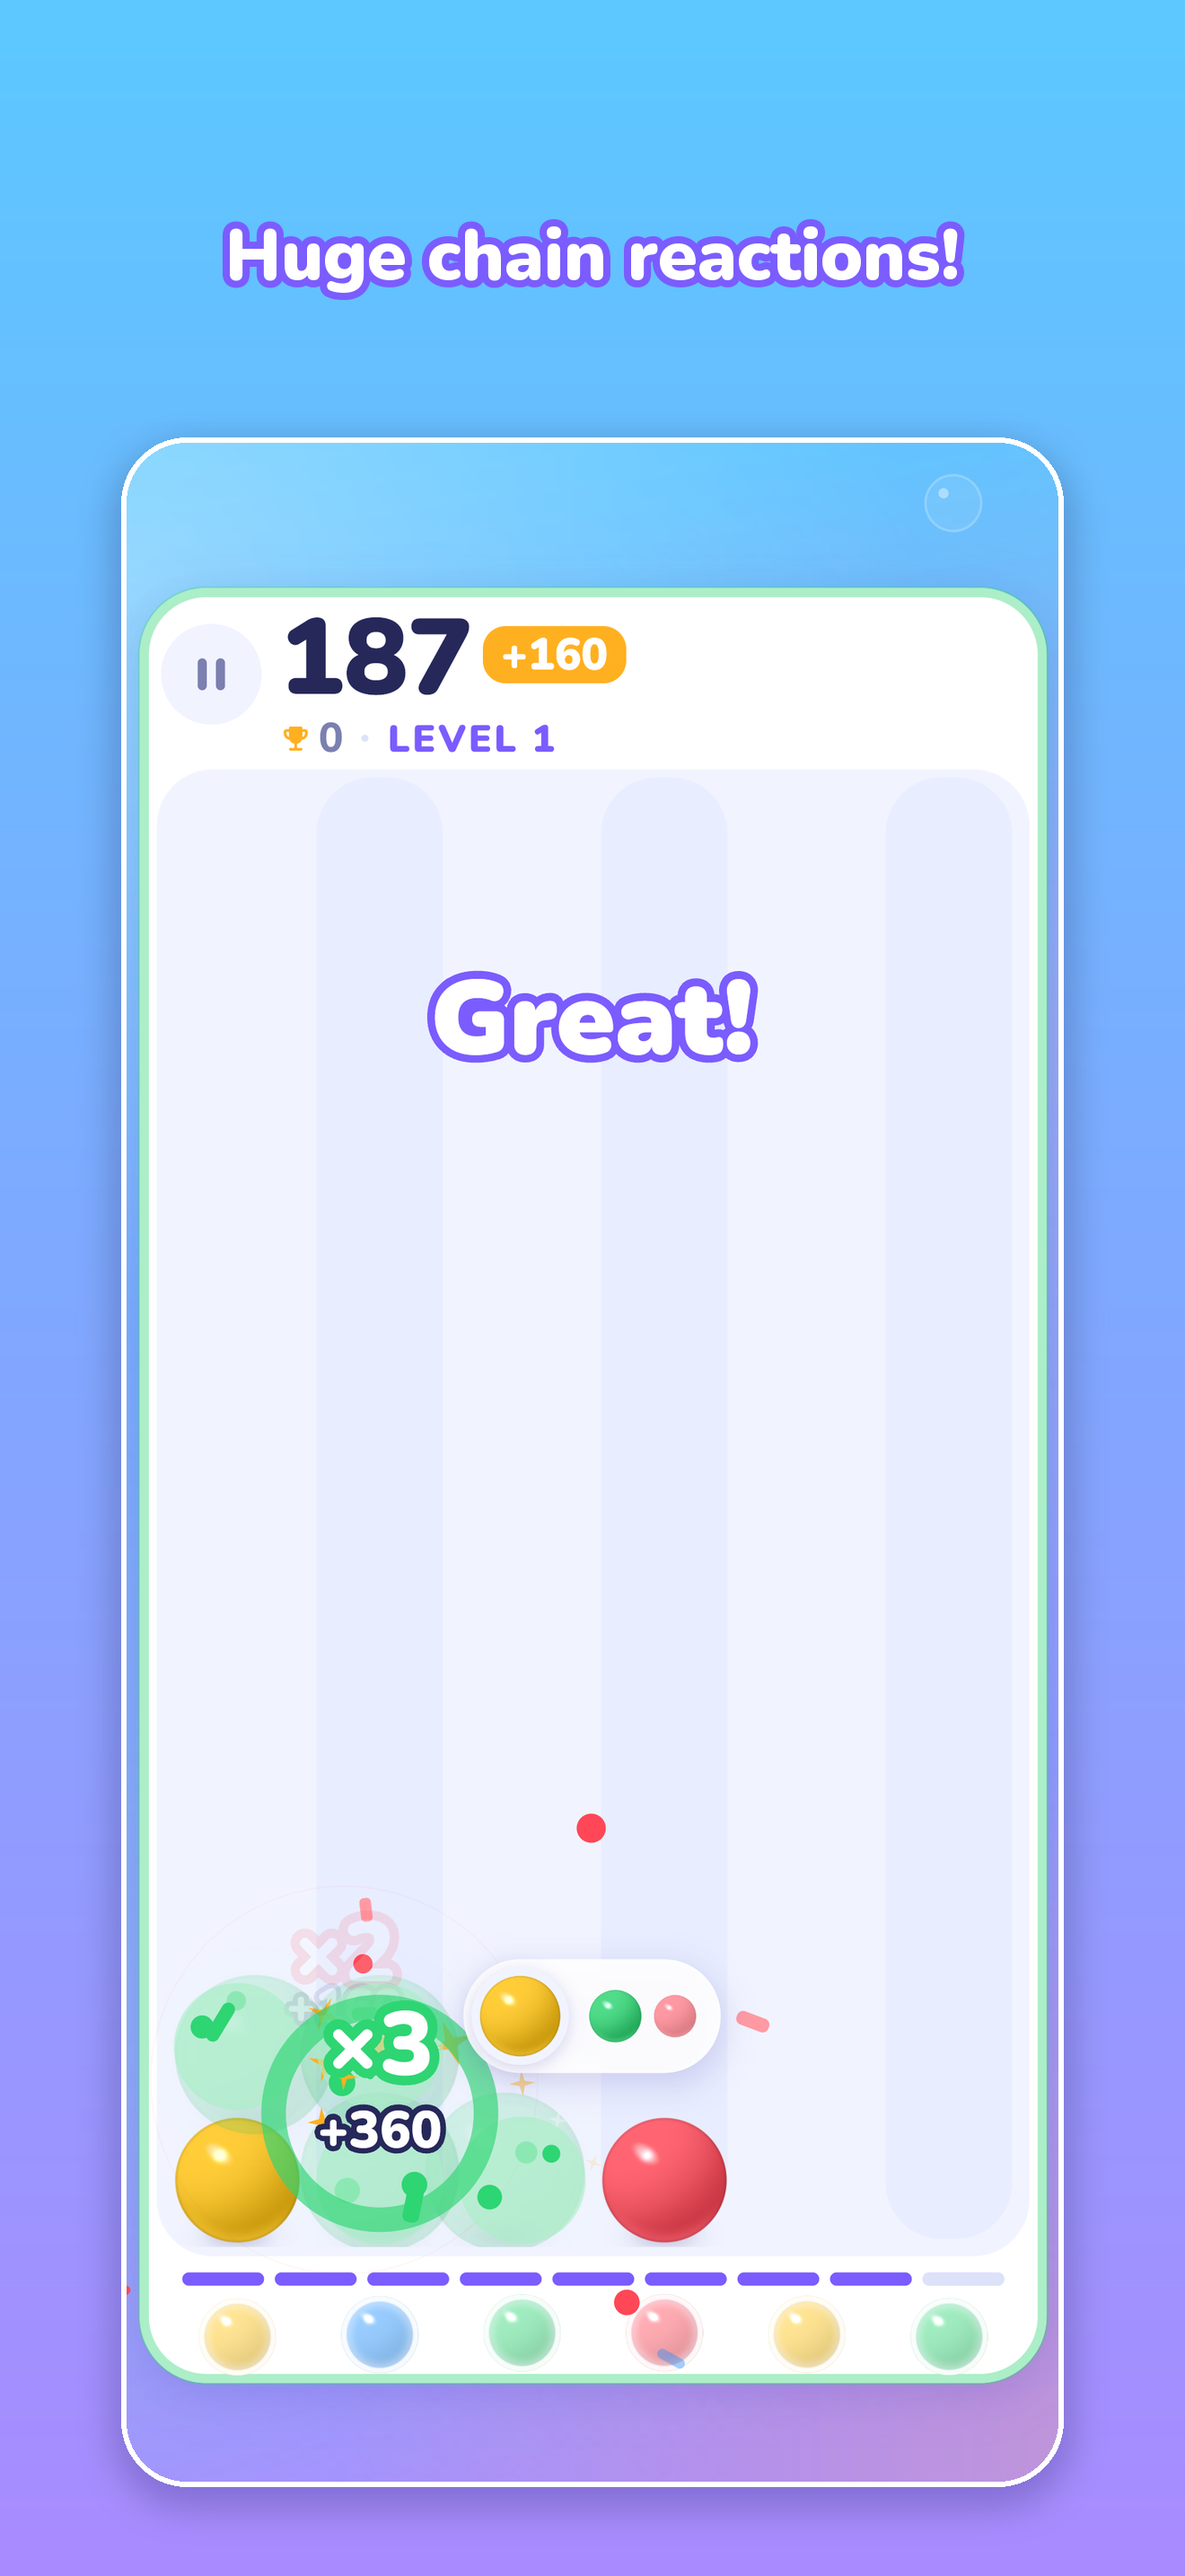
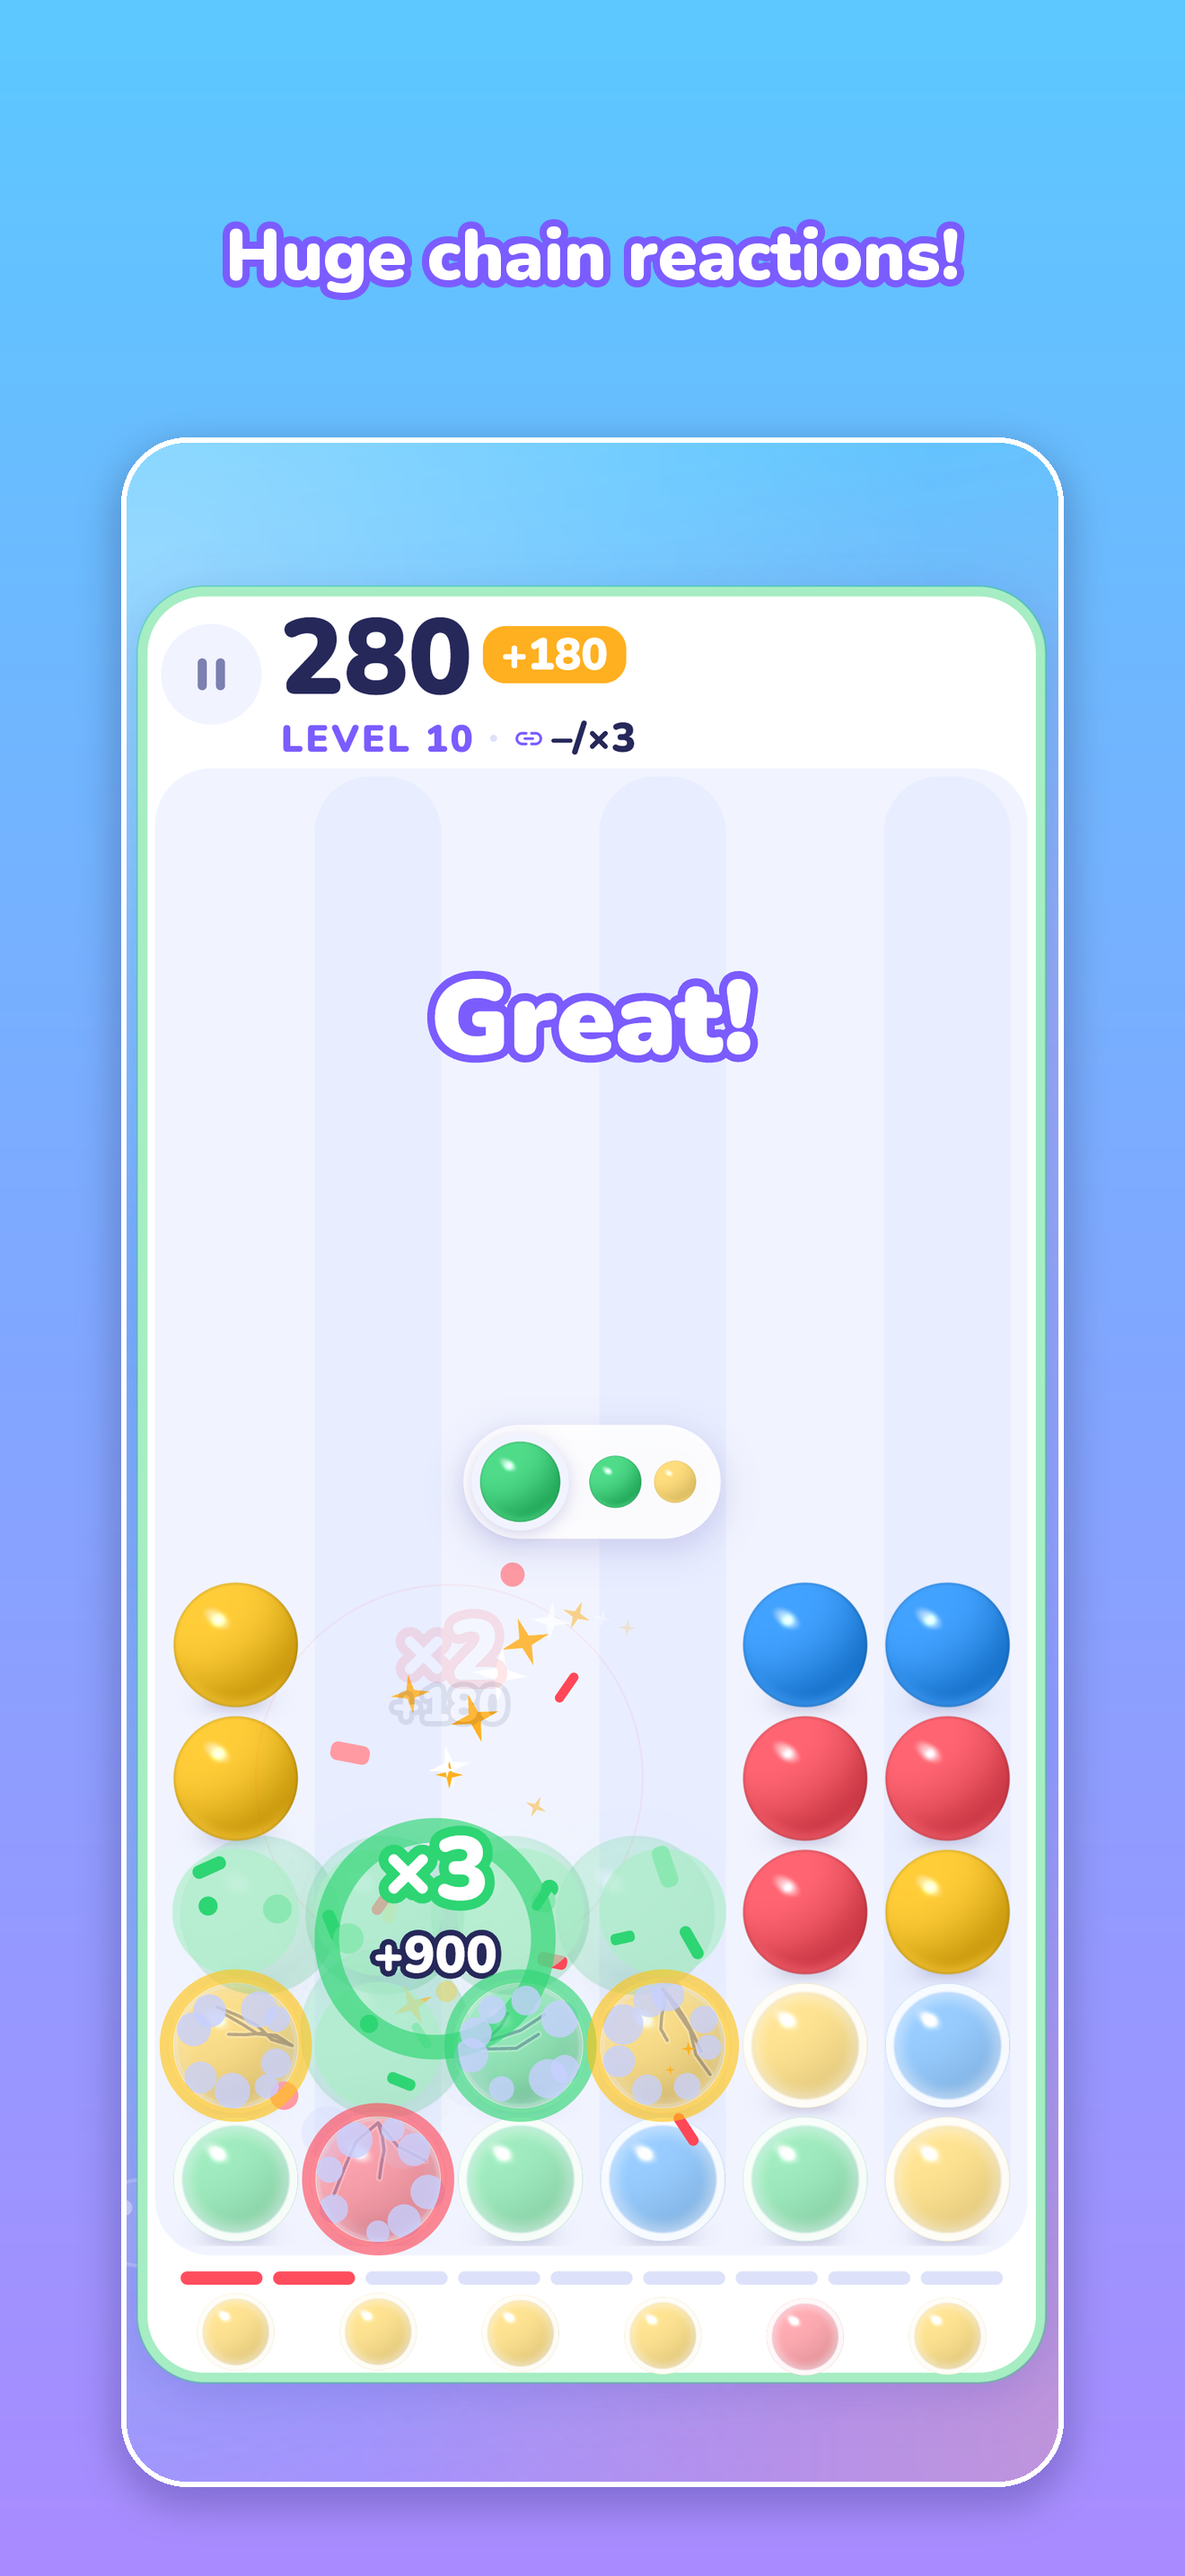
Store material for 1.1.0: six new screenshots (levels, goal card, gift, style), guide and checklist

diff --git a/tools/make_store_assets.py b/tools/make_store_assets.py
@@ -2,7 +2,7 @@
 
 Input: raw 1320x2868 game screenshots in app/build/store_raw/, captured with the
 phone-frame screenshot driver (see docs/MOBILE_RELEASE_GUIDE.md, "Remaking the
-store images"). Needs Pillow: python -m pip install --user pillow
+store images"); names as in SHOTS below. Needs Pillow: python -m pip install --user pillow
 
     python tools/make_store_assets.py
 """
@@ -22,11 +22,12 @@ ACCENT = (0x7B, 0x5C, 0xFF)
 
 # (raw screenshot, caption): only things the game really does.
 SHOTS = [
-    ('chain_04', 'Huge chain reactions!'),
-    ('aim', 'Drag to aim, then drop'),
-    ('chain_03', 'Free the balls in bubbles'),
-    ('round_mid', 'Plan ahead: new rows rise'),
-    ('home', 'Quick rounds, plays offline'),
+    ('chain', 'Huge chain reactions!'),
+    ('map', '30 levels to beat'),
+    ('level_card', 'A clear goal every level'),
+    ('gift', 'Win gifts and new styles'),
+    ('style', 'Unlock new balls and skies'),
+    ('home', 'Endless mode, plays offline'),
 ]
 
 

diff --git a/docs/MOBILE_RELEASE_GUIDE.md b/docs/MOBILE_RELEASE_GUIDE.md
@@ -13,20 +13,20 @@ Written for a first release. Work through it with the checklist in
 
 | Area | Status |
 |---|---|
-| Game | Finished and tested (see section 6). Version **1.0.0**, build number **1**. |
+| Game | Finished and tested (see section 6). Version **1.1.0**, build number **2**: 30 levels with goals, gifts, achievements and unlockable styles, plus Endless. |
 | App identity | Name **Bubblop**, app ID **com.bubblop.game** (Android and iOS), app icon, launch screen. |
 | Android | Signed release bundle built: `app\build\app\outputs\bundle\release\app-release.aab`. Targets Android 16 (API 36), minimum Android 7 (API 24); 64-bit; native code 16 KB-page compatible; **no permissions** players see. |
 | Android signing | Upload key created at `C:\Users\User\pop-upload-key.jks`; password in `app\android\key.properties` (not in Git). **You must back these up**, section 7. |
 | iPhone | Project set up for iPhone only, portrait only, iOS 15+. Cloud build workflow ready in `codemagic.yaml` (no Mac needed). Not built yet: that needs your Apple account. |
 | Store texts | `docs\store\listing.md`: titles, descriptions, keywords, categories and every questionnaire answer. |
-| Store images | `docs\store\assets\`: 5 iPhone screenshots (1320×2868), 5 Android screenshots (1080×1920), Play feature graphic (1024×500), Play icon (512×512). Made from the real game. |
+| Store images | `docs\store\assets\`: 6 iPhone screenshots (1320×2868), 6 Android screenshots (1080×1920), Play feature graphic (1024×500), Play icon (512×512). Made from the real game (levels, goal card, gift, style, home). |
 | Web pages | Support page `docs\index.html` and privacy policy `docs\privacy.html`, ready for free hosting on GitHub Pages (one switch, part A below). |
 
 ## 2. What was changed for release, and why
 
 | Change | Why |
 |---|---|
-| Version 0.1.0 → **1.0.0+1** (`app\pubspec.yaml`) | First public version. |
+| Version 0.1.0 → **1.0.0+1**, then **1.1.0+2** (`app\pubspec.yaml`) | First public version; 1.1.0 adds levels, gifts, achievements and styles. |
 | iOS: iPhone only, portrait only, full screen (`app\ios\Runner.xcodeproj\project.pbxproj`, `app\ios\Runner\Info.plist`) | The game is portrait-only. iPad support would need iPad screenshots and all four orientations. iPads can still run the iPhone version. |
 | iOS: `ITSAppUsesNonExemptEncryption = NO` (`Info.plist`) | The game uses no encryption, so App Store Connect stops asking the export-compliance question on every upload. |
 | `codemagic.yaml`: new **iOS release (TestFlight)** workflow | Builds, signs and uploads the iPhone version from the cloud, so you don't need a Mac. |
@@ -62,7 +62,7 @@ downloaded from the build page.
 
 | File | Path |
 |---|---|
-| Android bundle for Google Play | `app\build\app\outputs\bundle\release\app-release.aab` (71 MB including the music; a single-phone install is about 40 MB) |
+| Android bundle for Google Play | `app\build\app\outputs\bundle\release\app-release.aab` (72 MB including the music; a single-phone install is about 40 MB) |
 | Android test APK | `app\build\app\outputs\flutter-apk\app-release.apk` |
 | Android upload key | `C:\Users\User\pop-upload-key.jks` |
 | Key password | `app\android\key.properties` (`storePassword` line) |
@@ -166,7 +166,7 @@ Connect **Users and Access**), and the games can be transferred to your own acco
 2. **Dashboard → Set up your app**: complete every item using the answers in
    `docs\store\listing.md` ("Google Play → App content").
 3. **Grow users → Store presence → Main store listing**: paste the texts, then upload the
-   icon, feature graphic and 5 phone screenshots from `docs\store\assets\`.
+   icon, feature graphic and 6 phone screenshots from `docs\store\assets\`.
 4. **Test and release → Testing → Internal testing → Create new release**: upload
    `app-release.aab`. Accept **Play App Signing** if asked. Release name `1.0.0 (1)`. Add
    yourself under **Testers**, open the link on your phone and install. Play a round.
@@ -222,7 +222,7 @@ Connect **Users and Access**), and the games can be transferred to your own acco
 8. **TestFlight:** add yourself under **Internal Testing**. Install **TestFlight** on your
    iPhone and play the game.
 9. **App Store page** (App Store Connect → your app → **iOS App 1.0**):
-   1. Screenshots: drag in `ios-6.9in-1.png` … `ios-6.9in-5.png` under **iPhone 6.9"
+   1. Screenshots: drag in `ios-6.9in-1.png` … `ios-6.9in-6.png` under **iPhone 6.9"
       Display**. If App Store Connect asks for a different size first, see section 14.
    2. Promotional text, description, keywords, support URL, marketing URL and copyright
       from `docs\store\listing.md`.
@@ -289,17 +289,20 @@ Connect **Users and Access**), and the games can be transferred to your own acco
 
 ## 14. Remaking the store images
 
-1. Capture raw screenshots at 1320×2868 with the developer screenshot driver, for example:
+1. Capture raw screenshots at 1320×2868 with the developer screenshot driver. Close the
+   Windows copy of the game first (a window losing focus pauses the game). Example:
    ```powershell
    cd C:\dev\project_pop\app
    flutter run -d windows --profile --dart-define=POP_PHONE=440x956+62+34 `
-     --dart-define=POP_SHOT_SCALE=3 --dart-define=POP_SEED=11 `
-     "--dart-define=POP_SHOT=wait 2.5; shot home; wait 2.5; tap 220 755; wait 1.5; shot round_start"
+     --dart-define=POP_SHOT_SCALE=3 --dart-define=POP_PROGRESS=11 `
+     "--dart-define=POP_SHOT=wait 5; shot home; tap 220 603; wait 1; tap 220 920; wait 0.8; shot map"
    ```
-   Shots land in `app\build\shots\`. Copy the ones you want into `app\build\store_raw\`
-   with the names listed in `tools\make_store_assets.py` (`chain_04`, `aim`, `chain_03`,
-   `round_mid`, `home`). The chain shots come from `--dart-define=POP_DEMO=chain` and
-   dropping into column 5. Ask me if you'd rather I do it.
+   `POP_PROGRESS=11` starts with levels 1–11 done (in memory only). Shots land in
+   `app\build\shots\`. Copy the ones you want into `app\build\store_raw\` with the names
+   listed in `tools\make_store_assets.py` (`chain`, `map`, `level_card`, `gift`, `style`,
+   `home`). The chain, goal card and gift come from playing level 10 with its recorded
+   winning moves (`packages\pop_core\test\level_solutions.dart`). Ask me if you'd rather I
+   do it.
 2. `python tools\make_store_assets.py` rebuilds everything in `docs\store\assets\`.
 3. For a different iPhone size (for example 6.3", 1206×2622), change the phone size to
    `402x874` and the `1320, 2868` numbers in the script.

diff --git a/docs/RELEASE_CHECKLIST.md b/docs/RELEASE_CHECKLIST.md
@@ -4,14 +4,14 @@ Tick items as you go (in VS Code: change `[ ]` to `[x]`). Details for each step 
 [MOBILE_RELEASE_GUIDE.md](MOBILE_RELEASE_GUIDE.md); section numbers are in brackets.
 
 ## Done for you (2026-10-22)
-- [x] Game finished; version 1.0.0 (build 1)
+- [x] Game finished; version 1.1.0 (build 2): levels, gifts, achievements, styles
 - [x] Automated checks pass: analyze, 27 app tests, 50 rules tests
 - [x] Android release build tested on the emulator (launch, tutorial, chain, back, resume, saved progress)
 - [x] Android upload key created; signed `app-release.aab` built and verified
 - [x] Android: API 36 target, 64-bit, 16 KB pages, no user permissions
 - [x] iOS project: iPhone only, portrait, iOS 15+, encryption declaration, Codemagic release workflow
 - [x] Store texts and questionnaire answers (`docs/store/listing.md`)
-- [x] Store images (`docs/store/assets/`)
+- [x] Store images (`docs/store/assets/`), refreshed for 1.1.0 (6 screenshots)
 - [x] Support and privacy web pages (`docs/index.html`, `docs/privacy.html`)
 
 ## Before anything else
@@ -31,7 +31,8 @@ Tick items as you go (in VS Code: change `[ ]` to `[x]`). Details for each step 
 - [x] Main store listing: texts, icon, feature graphic, 5 screenshots [9B.3]
 - [x] Internal testing: upload `app-release.aab`, accept Play App Signing, install on your phone [9B.4]
 - [ ] Real-phone checks: sound, vibration, smoothness, best score after reopening, pause on a call [6]
-- [ ] Closed testing release sent for review [9B.5]
+- [ ] Main store listing: replace the screenshots with the 6 new ones and paste the new description lines (1.1.0)
+- [ ] Closed testing release with `Bubblop 1.1.0 (upload this).aab` sent for review [9B.5]
 - [ ] 12+ testers opted in (list names here): …
 - [ ] Day 1 of 14: ____ · Day 14: ____
 - [ ] Apply for production access [9B.6]

diff --git a/docs/known-bugs.md b/docs/known-bugs.md
@@ -68,6 +68,15 @@ active effects.
 
 UI thread (build) for the bright design: 0.9 ms average, 2.0 ms p99, 0 frames over budget.
 
+## Verified 2026-10-27 (1.1.0+2: levels, gifts, achievements, styles)
+- Windows phone-frame runs: home, level map (5 per row), goal card, levels 3 and 10 won by
+  their recorded lines (gift box and special gift opened), a lost level 1, achievements,
+  style (buying Mint, using Candy recolours home and game), Endless unchanged.
+- Android emulator (API 37), release build: fresh install → level 1 on the tutorial board
+  won, +50 coins with two achievements; force-stop and relaunch keeps coins and LEVEL 2;
+  map shows 5 per row at 411 dp. No game errors in logcat.
+- App bundle 1.1.0 (2): signed with the upload key, targetSdk 36, no runtime permissions.
+
 ## Verified 2026-10-26 (release candidate 1.0.0+1, new layout and music)
 - Android emulator (API 37), release build: home, tutorial, held press → ×2 chain, Back →
   pause (Sound / Music / Vibration), background and return stays paused, force-stop and

diff --git a/docs/store/listing.md b/docs/store/listing.md
@@ -63,7 +63,7 @@ bubble to break it open and free the ball inside, which can set off an even bigg
 |---|---|
 | App icon (512×512) | `play-icon-512.png` |
 | Feature graphic (1024×500) | `play-feature-graphic-1024x500.png` |
-| Phone screenshots (1080×1920, upload in this order) | `android-phone-1.png` … `android-phone-5.png` |
+| Phone screenshots (1080×1920, upload in this order) | `android-phone-1.png` … `android-phone-6.png` |
 
 ---
 
@@ -83,7 +83,7 @@ plain text).
 ### Screenshots (in docs/store/assets/)
 | App Store Connect field | File |
 |---|---|
-| iPhone 6.9" Display (1320×2868, upload in this order) | `ios-6.9in-1.png` … `ios-6.9in-5.png` |
+| iPhone 6.9" Display (1320×2868, upload in this order) | `ios-6.9in-1.png` … `ios-6.9in-6.png` |
 
 The app is iPhone-only, so no iPad screenshots are needed. If App Store Connect asks for
 a different iPhone size first, the guide explains how to remake them in one command.
